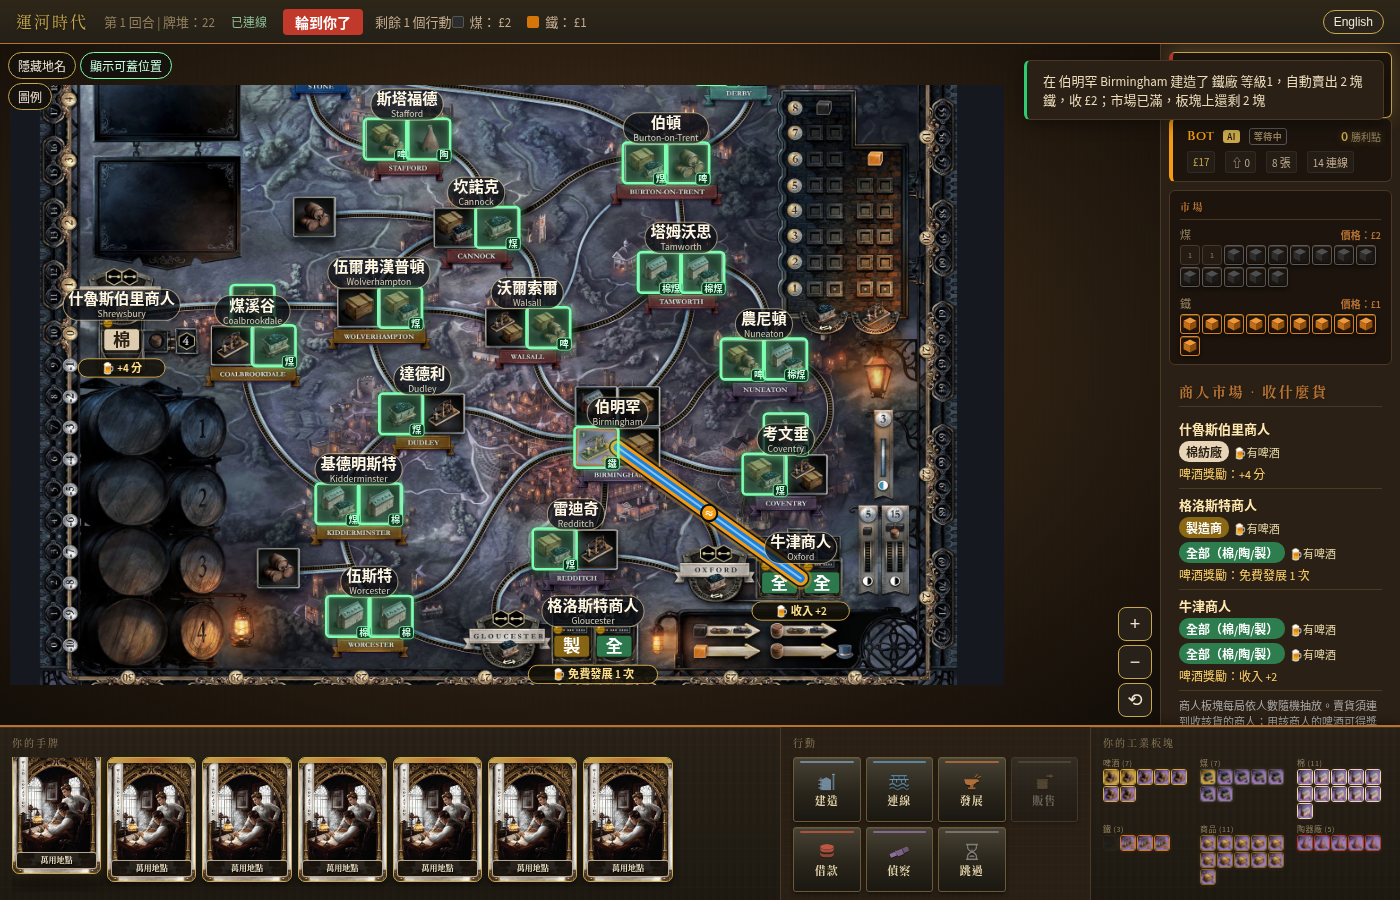
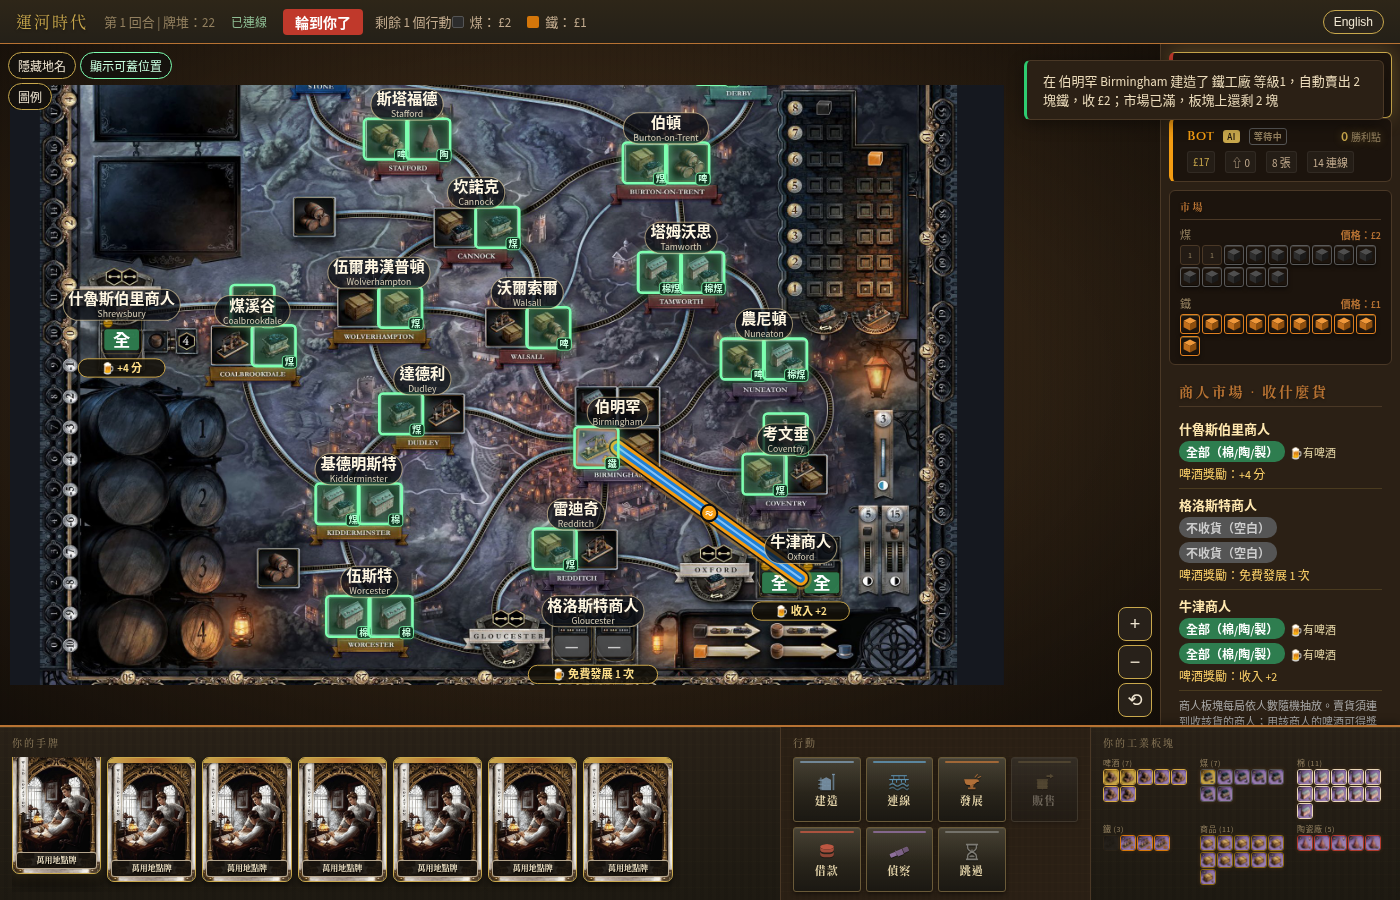
Hide labels over lit slots, brief hint toast, Chinese hand cards

diff --git a/js/uiManager.js b/js/uiManager.js
@@ -281,10 +281,11 @@ class UIManager {
                 if (card.type === CARD_TYPES.LOCATION) cardEl.classList.add('location-card');
                 else if (card.type === CARD_TYPES.INDUSTRY) cardEl.classList.add('industry-card');
                 else cardEl.classList.add('wild-card');
-                const artLabel = card.type === CARD_TYPES.LOCATION
-                    ? ''
-                    : `<span class="card-art-label">${card.name || (card.type === CARD_TYPES.WILD_LOCATION ? 'Wild Location' : 'Wild Industry')}</span>`;
-                cardEl.innerHTML = `<img src="${art}" alt="${card.type === CARD_TYPES.LOCATION ? card.name || '' : ''}" draggable="false">${artLabel}`;
+                const ct = this.cardTitle(card);
+                cardEl.setAttribute('data-no-i18n', '');
+                cardEl.title = ct.zh;
+                const artLabel = `<span class="card-art-label">${this.bEsc(ct.zh)}</span>`;
+                cardEl.innerHTML = `<img src="${art}" alt="${this.bEsc(ct.zh)}" draggable="false">${artLabel}`;
                 if (this.selectedCard === idx || this.previewCard === idx) cardEl.classList.add('selected');
                 if (this.previewCard === idx) cardEl.classList.add('previewing');
                 if (this.selectedAction === ACTIONS.SCOUT &&
@@ -299,6 +300,9 @@ class UIManager {
                 return;
             }
 
+            const ct = this.cardTitle(card);
+            cardEl.setAttribute('data-no-i18n', '');
+            cardEl.title = ct.zh;
             if (card.type === CARD_TYPES.LOCATION) {
                 cardEl.classList.add('location-card');
                 const city = CITIES[card.location];
@@ -313,9 +317,9 @@ class UIManager {
                 }
 
                 cardEl.innerHTML = `
-                    <div class="card-type">Location</div>
+                    <div class="card-type">${ct.type}</div>
                     <div style="font-size:20px;margin:4px 0;">📍</div>
-                    <div class="card-name">${card.name}</div>
+                    <div class="card-name">${this.bEsc(ct.zh)}</div>${ct.en ? `<div class="card-name-en">${this.bEsc(ct.en)}</div>` : ''}
                 `;
             } else if (card.type === CARD_TYPES.INDUSTRY) {
                 cardEl.classList.add('industry-card');
@@ -334,23 +338,23 @@ class UIManager {
                     iconHtml = svgIcon || `<div class="card-icon">${display.icon}</div>`;
                 }
                 cardEl.innerHTML = `
-                    <div class="card-type">Industry</div>
+                    <div class="card-type">${ct.type}</div>
                     ${iconHtml}
-                    <div class="card-name">${card.name}</div>
+                    <div class="card-name">${this.bEsc(ct.zh)}</div>
                 `;
             } else if (card.type === CARD_TYPES.WILD_LOCATION) {
                 cardEl.classList.add('wild-card');
                 cardEl.innerHTML = `
-                    <div class="card-type">Wild</div>
+                    <div class="card-type">${ct.type}</div>
                     <div class="card-icon">&#10038;</div>
-                    <div class="card-name">Location</div>
+                    <div class="card-name">${this.bEsc(ct.zh)}</div>
                 `;
             } else if (card.type === CARD_TYPES.WILD_INDUSTRY) {
                 cardEl.classList.add('wild-card');
                 cardEl.innerHTML = `
-                    <div class="card-type">Wild</div>
+                    <div class="card-type">${ct.type}</div>
                     <div class="card-icon">&#10040;</div>
-                    <div class="card-name">Industry</div>
+                    <div class="card-name">${this.bEsc(ct.zh)}</div>
                 `;
             }
 
@@ -783,6 +787,7 @@ class UIManager {
         this.renderer.highlightSlots(targets);
         if (targets.length) this.renderer.showBuildFocus?.(targets); else this.renderer.clearBuildFocus?.();
         this.renderer.svg?.classList.add('build-select-mode', 'card-preview-mode');
+        document.body.classList.add('card-previewing');
         let el = document.getElementById('card-preview-hint');
         if (!el) {
             el = document.createElement('div');
@@ -806,12 +811,20 @@ class UIManager {
         }
         el.innerHTML = `<span class="cp-text">${this.bEsc(msg)}</span><button class="btn-small" data-cp="close">${this.bL('取消', 'Close')}</button>`;
         el.querySelector('[data-cp="close"]').addEventListener('click', () => { this.clearCardPreview(); this.updateHand(); this.updateBuildHints(); });
+        // Success hint is a brief toast; the "no spot" reason stays until deselected.
+        clearTimeout(this._cpTimer);
+        if (targets.length) {
+            el.classList.add('cp-toast');
+            this._cpTimer = setTimeout(() => { el.classList.add('hidden'); }, 2000);
+        }
     }
 
     clearCardPreview() {
         const had = this.previewCard != null;
         this.previewCard = null;
         this.previewTargets = null;
+        clearTimeout(this._cpTimer);
+        document.body.classList.remove('card-previewing');
         document.getElementById('card-preview-hint')?.classList.add('hidden');
         if (had && this.renderer) {
             this.renderer.clearHighlights();
@@ -932,6 +945,22 @@ class UIManager {
 
     // ---- helpers for the build flow (localised directly; panel is data-no-i18n)
     bzh() { return !window.I18N || window.I18N.lang() === 'zh'; }
+    // Hand-card titles in the current language (zh default; English via toggle).
+    cardTitle(card) {
+        const IZ = { cottonMill: '棉紡廠', coalMine: '煤礦', ironWorks: '鐵工廠', manufacturer: '製造商', pottery: '陶瓷廠', brewery: '啤酒廠' };
+        if (card.type === CARD_TYPES.LOCATION) {
+            const en = CITIES[card.location]?.name || card.name || '';
+            const zh = (window.I18N && window.I18N.zhName(en)) || en;
+            return { type: this.bL('地點牌', 'Location'), zh: this.bL(zh, en), en: this.bzh() && zh !== en ? en : '' };
+        }
+        if (card.type === CARD_TYPES.INDUSTRY) {
+            const types = card.industryTypes || [];
+            return { type: this.bL('工業牌', 'Industry'), zh: this.bL(types.map(t => IZ[t] || t).join(' / '), card.name || ''), en: '' };
+        }
+        if (card.type === CARD_TYPES.WILD_LOCATION) return { type: this.bL('萬用牌', 'Wild'), zh: this.bL('萬用地點牌', 'Wild Location'), en: '' };
+        return { type: this.bL('萬用牌', 'Wild'), zh: this.bL('萬用工業牌', 'Wild Industry'), en: '' };
+    }
+
     bL(zh, en) { return this.bzh() ? zh : en; }
     bTown(id) {
         const n = CITIES[id]?.name || BREWERY_FARMS[id]?.name || id;

diff --git a/test/dom-smoke.js b/test/dom-smoke.js
@@ -193,20 +193,20 @@ async function load(url, errors, lang) {
             me.industryTiles.ironWorks.forEach(t => { t.used = false; });
             const opts = um.getDevelopSecondOptions(0, 'ironWorks');
             const iw = opts.find(o => o.type === 'ironWorks');
-            check('develop 2nd tile after 鐵廠 Lv1 offers 鐵廠 Lv2 (not Lv1)', iw && iw.level === 2, JSON.stringify(iw && iw.level));
+            check('develop 2nd tile after 鐵工廠 Lv1 offers 鐵工廠 Lv2 (not Lv1)', iw && iw.level === 2, JSON.stringify(iw && iw.level));
             const pot = me.industryTiles.pottery; const savedP = JSON.stringify(pot);
             pot.forEach(t => { t.used = t.level === 1; });
-            check('develop 2nd tile after 陶器廠 Lv2 excludes lightbulb Lv3', !um.getDevelopSecondOptions(0, 'pottery').some(o => o.type === 'pottery'));
+            check('develop 2nd tile after 陶瓷廠 Lv2 excludes lightbulb Lv3', !um.getDevelopSecondOptions(0, 'pottery').some(o => o.type === 'pottery'));
             me.industryTiles.ironWorks = JSON.parse(saved); me.industryTiles.pottery = JSON.parse(savedP);
         }
         const T = g.window.I18N.t;
         const logCases = {
             'sold Cotton Mill Lv1 [+£5 (Warrington)]': '賣出了 棉紡廠 等級1，獲得商人獎勵 +£5（沃靈頓 Warrington）',
             'sold Manufacturer Lv2 [+2 VP (Oxford)]': '賣出了 製造商 等級2，獲得商人獎勵 +2 勝利點（牛津 Oxford）',
-            'sold Pottery Lv1 [+2 income spaces (Shrewsbury)]': '賣出了 陶器廠 等級1，獲得商人獎勵 +2 收入格（什魯斯伯里 Shrewsbury）',
+            'sold Pottery Lv1 [+2 income spaces (Shrewsbury)]': '賣出了 陶瓷廠 等級1，獲得商人獎勵 +2 收入格（什魯斯伯里 Shrewsbury）',
             'sold Cotton Mill Lv1 [free develop earned (Gloucester)]': '賣出了 棉紡廠 等級1，獲得商人獎勵 獲得免費發展（格洛斯特 Gloucester）',
-            'sold Cotton Mill Lv1 [free develop: Iron Works]': '賣出了 棉紡廠 等級1，獲得商人獎勵 免費發展：鐵廠',
-            'sold Cotton Mill Lv1, sold Pottery Lv2': '賣出了 棉紡廠 等級1；賣出了 陶器廠 等級2',
+            'sold Cotton Mill Lv1 [free develop: Iron Works]': '賣出了 棉紡廠 等級1，獲得商人獎勵 免費發展：鐵工廠',
+            'sold Cotton Mill Lv1, sold Pottery Lv2': '賣出了 棉紡廠 等級1；賣出了 陶瓷廠 等級2',
             'sold Coal Mine Lv1 for £4 to cover income shortfall': '為補足收入缺口賣掉 煤礦 等級1，得 £4',
         };
         for (const [en, zh] of Object.entries(logCases)) check(`log zh: ${en}`, T(en) === zh, T(en));
@@ -284,6 +284,28 @@ async function load(url, errors, lang) {
                 check(`card preview ${i}: card marked selected`, gd.querySelectorAll('#player-hand .card')[i].classList.contains('previewing'));
             }
             check('card preview: highlighted slots == rules legal set for each card + hint', okAll, detail);
+            {
+                const txt = [...gd.querySelectorAll('#player-hand .card')].map(c => c.textContent.replace(/\(.*?\)/g, '') + ' ' + (c.title || '')).join('|');
+                const cardsZh = [...gd.querySelectorAll('#player-hand .card')].every(c => /[\u4e00-\u9fff]/.test(c.textContent));
+                const noEnTitles = !/Location|Industry|Wild|Cotton|Coal Mine|Iron Works|Pottery|Brewery|Manufacturer/.test(txt.replace(/class="card-name-en"/g, ''));
+                const enLines = [...gd.querySelectorAll('#player-hand .card-name-en')].map(e => e.textContent).join('');
+                check('hand cards: Chinese titles, no English type/industry words', cardsZh && !/Location|Industry|Wild|Cotton|Coal Mine|Iron Works|Pottery|Brewery|Manufacturer/.test(txt.split('').join('').replace(enLines, '')), txt);
+                void noEnTitles;
+                const li = hand.findIndex((_, i) => um.logic.getBuildTargetsForCard(um.myId, i).length);
+                gd.querySelectorAll('#player-hand .card')[li].click(); await sleep(20);
+                const hintEl = gd.getElementById('card-preview-hint');
+                check('card preview: legal-spot hint is a non-blocking toast', hintEl.classList.contains('cp-toast'));
+                const rects = um.logic.getBuildTargetsForCard(um.myId, li).map(t => um.renderer.slotBoardRect(t)).filter(Boolean);
+                let overl = [];
+                gd.querySelectorAll('#town-labels-layer .town-label:not(.label-over-lit)').forEach(lg => {
+                    const m = /translate\(([-\d.]+),([-\d.]+)\)/.exec(lg.getAttribute('transform')); const r = lg.querySelector('rect');
+                    const x = +m[1] + +r.getAttribute('x'), y = +m[2] + +r.getAttribute('y'), w = +r.getAttribute('width'), h = +r.getAttribute('height');
+                    if (rects.some(b => x < b.x + b.w && x + w > b.x && y < b.y + b.h && y + h > b.y)) overl.push(lg.dataset.label);
+                });
+                check('card preview: no visible town label overlaps a lit slot', overl.length === 0, overl.join(','));
+                gd.querySelectorAll('#player-hand .card')[li].click(); await sleep(20);
+                gd.querySelectorAll('#player-hand .card')[hand.length - 1].click(); await sleep(20);
+            }
             check('card preview: at least one card has legal spots', sawSome);
             const last = hand.length - 1;
             gd.querySelectorAll('#player-hand .card')[last].click(); await sleep(20);

diff --git a/test/browser-e2e.js b/test/browser-e2e.js
@@ -130,7 +130,7 @@ const ready = new Promise(res => srv.stdout.on('data', d => { if (/on :/.test(St
         }
         // ---- Card preview on mobile: tap a hand card -> its legal spots glow
         {
-            const CS = process.env.CARD_SHOTS || '/workspace/card-shots';
+            const CS = process.env.CARD_SHOTS || '/workspace/fix-shots';
             fs.mkdirSync(CS, { recursive: true });
             await page.setViewport({ width: 390, height: 844, deviceScaleFactor: 2, isMobile: true, hasTouch: true });
             await page.goto(cardUrl); await waitUi(); await sleep(800);
@@ -147,9 +147,40 @@ const ready = new Promise(res => srv.stdout.on('data', d => { if (/on :/.test(St
                 check(`mobile card ${i}: glowing slots == rules legal set`, JSON.stringify(r.want) === JSON.stringify(r.got), r.want + ' vs ' + r.got);
                 check(`mobile card ${i}: hint text`, r.want.length ? /這張牌可以蓋在亮起來的地方/.test(r.hint) : /這張牌目前沒有可蓋的位置（.+）/.test(r.hint), r.hint);
                 await page.screenshot({ path: path.join(CS, `card-${i}-${r.type}.png`) });
+                const cov = await page.evaluate(i => {
+                    const um = window.uiManager; const bad = [];
+                    const labels = [...document.querySelectorAll('#town-labels-layer .town-label')].filter(l => getComputedStyle(l).display !== 'none').map(l => l.getBoundingClientRect());
+                    document.querySelectorAll('#game-board .highlight-slot').forEach(el => {
+                        const r = el.getBoundingClientRect(); const cx = r.left + r.width / 2, cy = r.top + r.height / 2;
+                        if (cx < 0 || cy < 0 || cx > innerWidth || cy > innerHeight) return;
+                        const hit = document.elementFromPoint(cx, cy);
+                        const k = el.dataset.farm || (el.dataset.city + ':' + el.dataset.slot);
+                        if (!hit || !el.contains(hit)) bad.push(k + ' hit=' + (hit && (hit.id || hit.className.baseVal || hit.className)));
+                        if (labels.some(b => b.left < r.right && b.right > r.left && b.top < r.bottom && b.bottom > r.top)) bad.push(k + ' under label');
+                    });
+                    return bad;
+                }, i);
+                check(`mobile card ${i}: every lit slot is topmost and not under a label`, cov.length === 0, cov.join('; '));
+                if (r.want.length) { await sleep(2300); check(`mobile card ${i}: hint toast auto-hides`, await page.evaluate(() => document.getElementById('card-preview-hint').classList.contains('hidden'))); }
                 await page.tap(`#player-hand .card:nth-child(${i + 1})`); await sleep(200);
                 check(`mobile card ${i}: tap again deselects`, await page.evaluate(() => window.uiManager.previewCard == null && !document.querySelector('#game-board .highlight-slot')));
             }
+            const handTxt = await page.$$eval('#player-hand .card', es => es.map(e => e.textContent.trim().replace(/\s+/g, ' ')));
+            console.log('HAND', handTxt.join(' | '));
+            check('mobile hand cards are Chinese', handTxt.every(t => /[\u4e00-\u9fff]/.test(t) && !/Location|Industry|Wild\b|Cotton|Coal Mine|Iron Works|Pottery|Brewery|Manufacturer/.test(t.replace(/[A-Z][a-z-]+(?:-on-[A-Z][a-z]+)?$/, ''))), handTxt.join('|'));
+            await page.screenshot({ path: path.join(CS, 'mobile-hand-zh.png') });
+            // Desktop shots of the lit spots per card
+            await page.setViewport({ width: 1440, height: 900, deviceScaleFactor: 1 });
+            await page.goto(cardUrl); await waitUi(); await sleep(800);
+            for (let i = 0; i < n; i++) {
+                await page.click(`#player-hand .card:nth-child(${i + 1})`); await sleep(300);
+                const bad = await page.evaluate(() => [...document.querySelectorAll('#game-board .highlight-slot')].filter(el => { const r = el.getBoundingClientRect(); const cx = r.left + r.width / 2, cy = r.top + r.height / 2; if (cx < 0 || cy < 0 || cx > innerWidth || cy > innerHeight) return false; const h = document.elementFromPoint(cx, cy); return !h || !el.contains(h); }).map(e => e.dataset.city + ':' + e.dataset.slot));
+                check(`desktop card ${i}: lit slots topmost`, bad.length === 0, bad.join(','));
+                await page.screenshot({ path: path.join(CS, `desktop-card-${i}.png`) });
+                await page.click(`#player-hand .card:nth-child(${i + 1})`); await sleep(200);
+            }
+            await page.setViewport({ width: 390, height: 844, deviceScaleFactor: 2, isMobile: true, hasTouch: true });
+            await page.goto(cardUrl); await waitUi(); await sleep(800);
             // Location card (Coventry) -> tap glowing slot -> confirm -> server builds
             await page.tap('#player-hand .card:nth-child(1)'); await sleep(300);
             const slotKey = await page.evaluate(() => { const um = window.uiManager; const t = um.logic.getBuildTargetsForCard(um.myId, 0)[0]; return t && { c: t.cityId, s: t.slotIndex, ty: t.industryType }; });

diff --git a/index.html b/index.html
@@ -4,7 +4,7 @@
     <meta charset="UTF-8">
     <meta name="viewport" content="width=device-width, initial-scale=1.0">
     <title>Brass: Birmingham</title>
-    <link rel="stylesheet" href="css/style.css?v=7">
+    <link rel="stylesheet" href="css/style.css?v=8">
     <link href="https://fonts.googleapis.com/css2?family=Cinzel:wght@400;600;700&family=Crimson+Text:ital,wght@0,400;0,600;1,400&family=Source+Sans+Pro:wght@300;400;600&display=swap" rel="stylesheet">
 </head>
 <body>
@@ -235,16 +235,16 @@
     </div>
 
     <!-- Scripts -->
-    <script src="js/i18n.js?v=7"></script>
-    <script src="js/gameData.js?v=7"></script>
-    <script src="js/industryIcons.js?v=7"></script>
-    <script src="js/gameState.js?v=7"></script>
-    <script src="js/gameLogic.js?v=7"></script>
-    <script src="js/aiPlayer.js?v=7"></script>
-    <script src="js/actionIcons.js?v=7"></script>
-    <script src="js/boardAssets.js?v=7"></script>
-    <script src="js/boardRenderer.js?v=7"></script>
-    <script src="js/uiManager.js?v=7"></script>
-    <script src="js/main.js?v=7"></script>
+    <script src="js/i18n.js?v=8"></script>
+    <script src="js/gameData.js?v=8"></script>
+    <script src="js/industryIcons.js?v=8"></script>
+    <script src="js/gameState.js?v=8"></script>
+    <script src="js/gameLogic.js?v=8"></script>
+    <script src="js/aiPlayer.js?v=8"></script>
+    <script src="js/actionIcons.js?v=8"></script>
+    <script src="js/boardAssets.js?v=8"></script>
+    <script src="js/boardRenderer.js?v=8"></script>
+    <script src="js/uiManager.js?v=8"></script>
+    <script src="js/main.js?v=8"></script>
 </body>
 </html>

diff --git a/js/boardRenderer.js b/js/boardRenderer.js
@@ -1593,6 +1593,22 @@ class BoardRenderer {
                 el.classList.add('highlight-slot');
             }
         }
+        this.hideLabelsOverSlots(validSlots);
+    }
+
+    // Hide any town/merchant label whose pill overlaps a lit slot, so labels
+    // never cover where the player can build.
+    hideLabelsOverSlots(slots) {
+        const rects = (slots || []).map(t => this.slotBoardRect(t)).filter(Boolean);
+        this.svg.querySelectorAll('.town-label').forEach(lg => {
+            const m = /translate\(([-\d.]+),([-\d.]+)\)/.exec(lg.getAttribute('transform') || '');
+            const r = lg.querySelector('rect');
+            if (!m || !r) return;
+            const x = +m[1] + +r.getAttribute('x'), y = +m[2] + +r.getAttribute('y');
+            const w = +r.getAttribute('width'), h = +r.getAttribute('height');
+            const hit = rects.some(b => x < b.x + b.w + 4 && x + w > b.x - 4 && y < b.y + b.h + 4 && y + h > b.y - 4);
+            lg.classList.toggle('label-over-lit', hit);
+        });
     }
 
     highlightConnections(validConnections) {
@@ -1680,6 +1696,7 @@ class BoardRenderer {
         this.svg.querySelectorAll('.chosen-slot').forEach(el => el.classList.remove('chosen-slot'));
         this.svg.querySelectorAll('.highlight-slot').forEach(el =>
             el.classList.remove('highlight-slot'));
+        this.svg.querySelectorAll('.label-over-lit').forEach(el => el.classList.remove('label-over-lit'));
         this.svg.querySelectorAll('.highlight').forEach(el =>
             el.classList.remove('highlight'));
     }

diff --git a/css/style.css b/css/style.css
@@ -2419,3 +2419,15 @@ body.fatal-only #game-screen { display: none !important; }
 @keyframes cp-glow { from { filter: drop-shadow(0 0 2px #ffd36e); } to { filter: drop-shadow(0 0 9px #ffd36e); } }
 .card.previewing { outline: 3px solid #7dffb0; outline-offset: 2px; transform: translateY(-8px); }
 @media (max-width: 760px) { #card-preview-hint { top: 6px; font-size: 13px; padding: 6px 8px; } }
+/* v8: labels never cover lit slots; preview hint is a small bottom toast */
+#town-labels-layer .town-label.label-over-lit { display: none; }
+.build-select-mode #town-labels-layer { opacity: .55; }
+#card-preview-hint.cp-toast { top: auto; bottom: 12px; pointer-events: none; opacity: .95; animation: cpFade 2s ease forwards; }
+#card-preview-hint.cp-toast button { display: none; }
+@keyframes cpFade { 0%,75% { opacity: .95; } 100% { opacity: 0; } }
+@media (max-width: 760px) { #card-preview-hint.cp-toast { top: auto; bottom: 8px; font-size: 12px; } #card-preview-hint.cp-none { top: auto; bottom: 8px; } }
+.card .card-name-en { font-size: 9px; opacity: .7; line-height: 1.1; }
+#board-tools { pointer-events: none; }
+#board-tools > *, #board-tools button, #board-tools summary, #board-tools details { pointer-events: auto; }
+body.card-previewing #board-tools { opacity: .25; }
+body.card-previewing #board-tools, body.card-previewing #board-tools * { pointer-events: none !important; }

diff --git a/js/i18n.js b/js/i18n.js
@@ -72,8 +72,8 @@
         'Need at least 3 cards': '至少需要 3 張手牌', 'Already have wild cards': '已持有萬用牌',
         'No wild cards available': '萬用牌已用完', 'Unknown action': '未知的行動',
         // industries
-        'Cotton Mill': '棉紡廠', 'Coal Mine': '煤礦', 'Iron Works': '鐵廠', 'Manufacturer': '製造商',
-        'Pottery': '陶器廠', 'Brewery': '啤酒廠', 'Cotton Mill / Manufacturer': '棉紡廠 / 製造商',
+        'Cotton Mill': '棉紡廠', 'Coal Mine': '煤礦', 'Iron Works': '鐵工廠', 'Manufacturer': '製造商',
+        'Pottery': '陶瓷廠', 'Brewery': '啤酒廠', 'Cotton Mill / Manufacturer': '棉紡廠 / 製造商',
         'Cotton': '棉', 'Goods': '商品', 'Beer': '啤酒', 'ANY': '任意',
         'Brewery (N)': '啤酒廠（北）', 'Brewery (S)': '啤酒廠（南）',
         // cards
@@ -131,7 +131,7 @@
 
     const IND = [
         ['Cotton Mill / Manufacturer', '棉紡廠 / 製造商'], ['Cotton Mill', '棉紡廠'], ['Coal Mine', '煤礦'],
-        ['Iron Works', '鐵廠'], ['Manufacturer', '製造商'], ['Pottery', '陶器廠'], ['Brewery', '啤酒廠'],
+        ['Iron Works', '鐵工廠'], ['Manufacturer', '製造商'], ['Pottery', '陶瓷廠'], ['Brewery', '啤酒廠'],
     ];
     const indName = s => { for (const [en, zh] of IND) s = s.split(en).join(zh); return s; };
 
